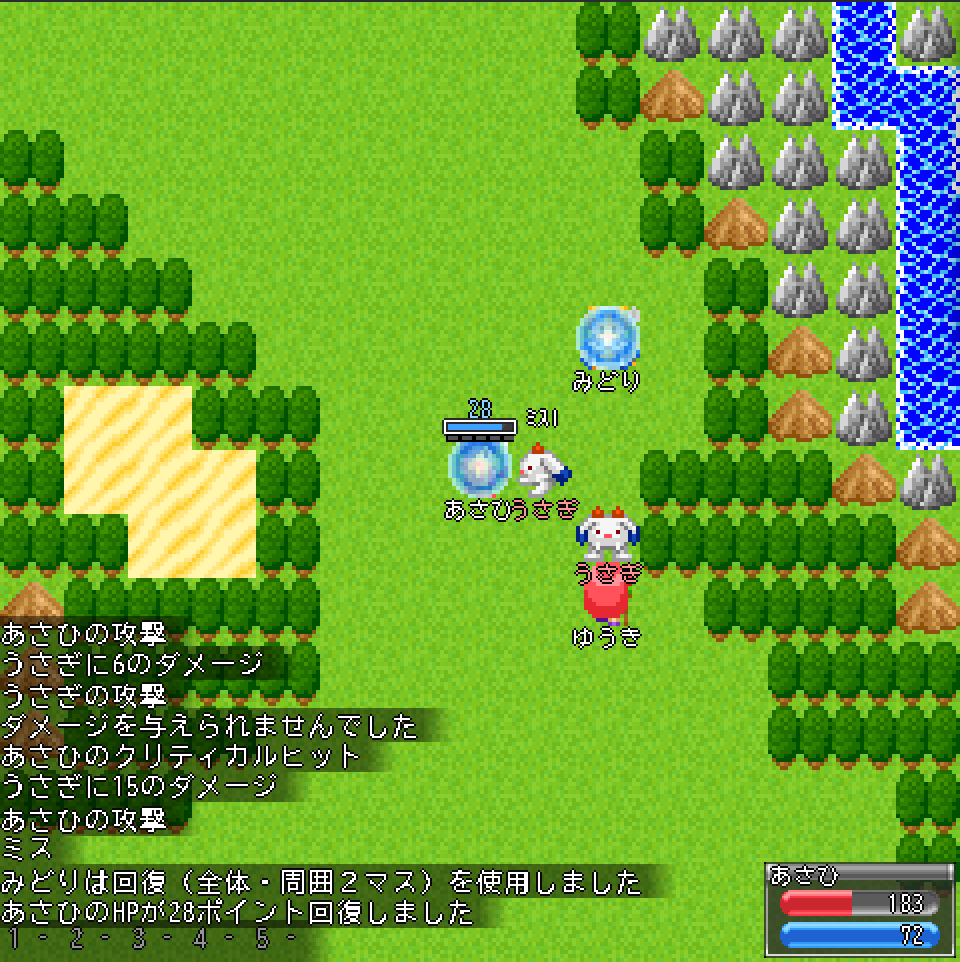
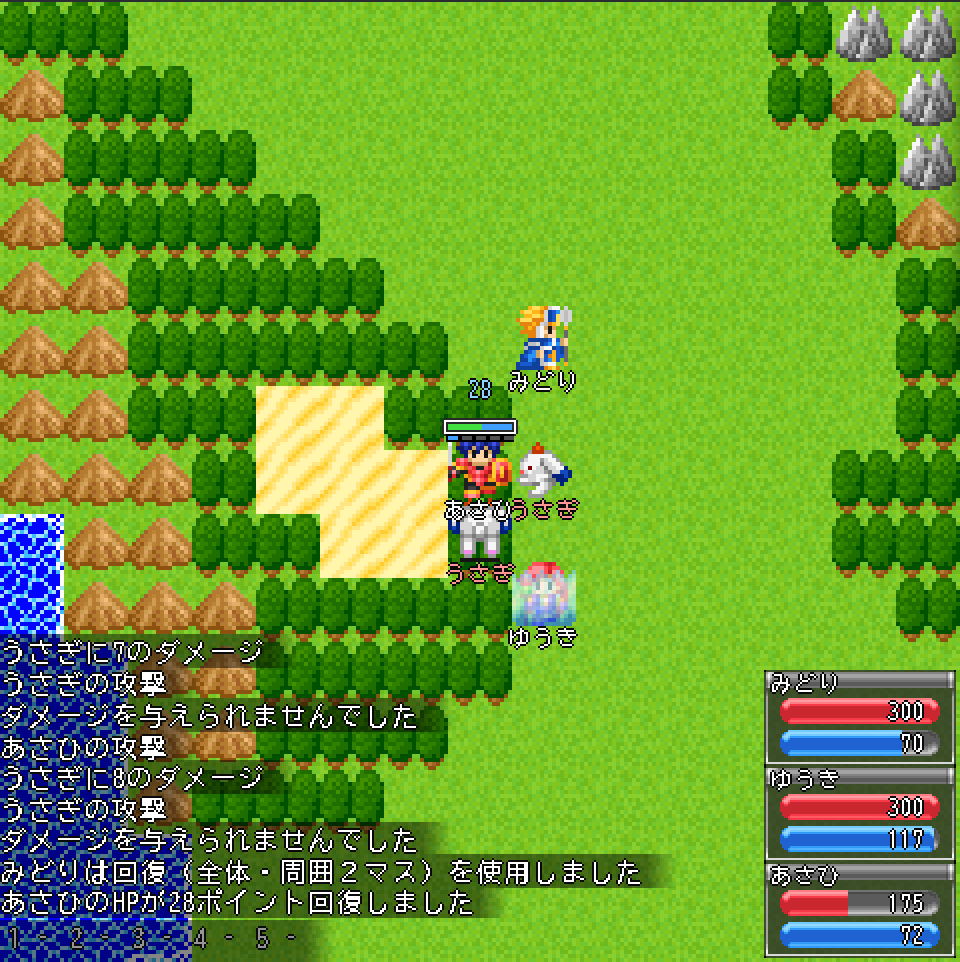
紹介ページ: 戦闘はパーティを組んだ状態（仲間のHP付き）に、爆弾ゲームは明るい試合中の写真に差し替え
Claude-Session: https://claude.ai/code/session_01YTg7wjkBfSv7cQpz35mTpN

diff --git a/web/about/about.html b/web/about/about.html
@@ -550,25 +550,17 @@
 
 		<div class="feature">
 			<figure class="shot">
-				<img src="/about/03-battle.png" width="960" height="962" alt="3人のパーティが敵を囲んで戦っている。ダメージと回復の表示" loading="lazy">
+				<img src="/about/03-battle.png" width="960" height="962" alt="パーティを組んだ3人が敵を囲んで戦っている。右下に3人ぶんのHP" loading="lazy">
 			</figure>
 			<div>
 				<h4>アクション感のある戦闘</h4>
 				<p>戦闘モードに切り替えて、ゲージが溜まったら攻撃。続けて攻撃したり、構えて身を守ったり、弓で遠くから狙ったり。特技は1〜5キー（スマホはショートカットボタン）にすぐ使えるよう登録できます。</p>
 				<ul>
 					<li>仲間と同じ敵を倒せば、ダメージを与えた全員に報酬</li>
+					<li>前で殴る戦士、特技を放つ魔法使い、傷を治す僧侶。パーティを組めば仲間のHPも画面に並びます</li>
+					<li>2人が続けざまに同じ敵へ攻撃を当てると「連携！」で威力アップ</li>
 					<li>町のNPCを傭兵として雇って、いっしょに戦ってもらうこともできます</li>
 				</ul>
-			</div>
-		</div>
-
-		<div class="feature">
-			<figure class="shot">
-				<img src="/about/12-party-battle2.png" width="960" height="962" alt="草原でパーティが回復の特技を使いながら敵と戦っている" loading="lazy">
-			</figure>
-			<div>
-				<h4>役割を分けて、力を合わせて</h4>
-				<p>前に出て殴る戦士、遠くから特技を放つ魔法使い、傷を治す僧侶。2人が続けざまに同じ敵へ攻撃を当てると「連携！」で威力が上がります。息が合うと、とっても気持ちいい。</p>
 			</div>
 		</div>
 
